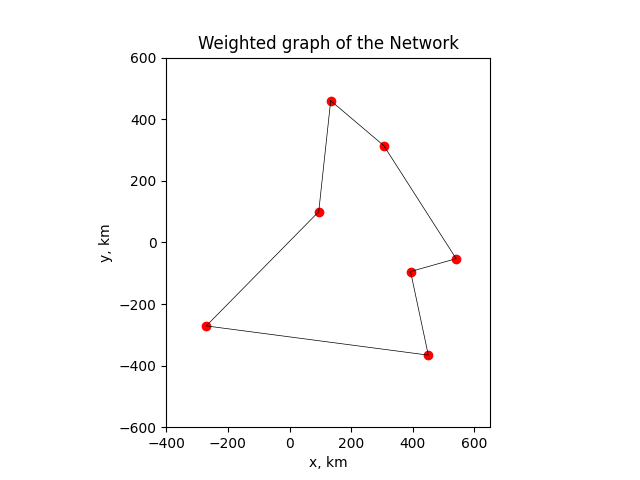
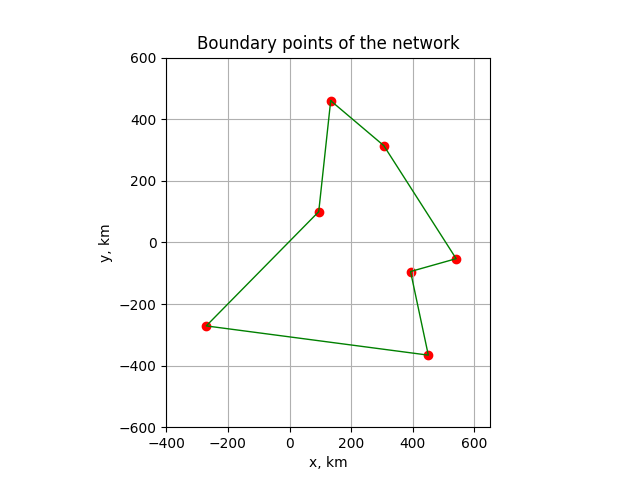
Some modifications to the method draw for better pictures.

diff --git a/core/elements.py b/core/elements.py
@@ -296,7 +296,7 @@ class Network:
         coord_array = np.transpose(np.array([x, y]))
         hull = ConvexHull(coord_array)  # Get the boundary coordinates
         coord_array = coord_array[hull.vertices]
-        if input_file_flag == 'exam':
+        if input_file_flag == 'exam':  # add the outer intersection points
             intersection1 = utils.line_intersections('AE', 'DB', self)
             intersection2 = utils.line_intersections('FG', 'CA', self)
             coord_array = np.vstack((coord_array[0], intersection1, coord_array[1:3], intersection2, coord_array[3:5]))
@@ -311,6 +311,7 @@ class Network:
         plt.title('Weighted graph of the Network')
         plt.xlabel('x, km')
         plt.ylabel('y, km')
+        plt.grid()
         for i in label:
             indx = label.index(i)
             for j in self.nodes[i].connected_nodes:
@@ -319,26 +320,29 @@ class Network:
                         indx2 = label.index(k)
                         xx = [x[indx2], x[indx]]
                         yy = [y[indx2], y[indx]]
-                        plt.plot(xx, yy, 'k-.', linewidth=0.5)  # lines
+                        plt.plot(xx, yy, 'g', linewidth=0.5)  # lines
         for xx, yy, s in zip(x, y, label):
-            circ = plt.Circle((xx, yy), radius=0.5e2)  # circles
+            circ = plt.Circle((xx, yy), radius=0.4e2)  # circles
             circ.set_facecolor('c')
             circ.set_edgecolor('k')
-            ax.txt = plt.text(xx - 0.13e2, yy - 0.13e2, s, fontsize=14)  # labels
+            ax.txt = plt.text(xx - 0.2e2, yy - 0.2e2, s, fontsize=13)  # labels
             ax.add_patch(circ)
         # Save as png
-        plt.savefig(out_dir / 'EXAM_res' / 'Network_Topology.png')
+        if save_my_figure:
+            plt.savefig(out_dir / 'EXAM_res' / 'Network_Topology.png')
         fig2, ax2 = plt.subplots(1)
         ax2.set_aspect('equal')
         plt.axis([-4e2, 6.5e2, -6e2, 6e2])
-        plt.title('Weighted graph of the Network')
+        plt.title('Boundary points of the network')
         plt.xlabel('x, km')
         plt.ylabel('y, km')
+        plt.grid()
         ax2.scatter(x_array, y_array, color='red')
         x_array = np.append(x_array, x_array[0])
         y_array = np.append(y_array, y_array[0])
-        plt.plot(x_array, y_array, 'k', linewidth=0.5)
-        plt.savefig(out_dir / 'EXAM_res' / 'simplified_network_for_hull.png')
+        plt.plot(x_array, y_array, 'g', linewidth=1)
+        if save_my_figure:
+            plt.savefig(out_dir / 'EXAM_res' / 'simplified_network_for_hull.png')
         # Show the image
         plt.show()
 

diff --git a/Tasks/LAB10/LAB10.py b/Tasks/LAB10/LAB10.py
@@ -22,11 +22,6 @@ elif input_file_flag == 'exam':
 else:
     raise ValueError('It can only be exam or lab...')
 
-# simulation flags
-save_my_figure = False
-verbose = False
-do_simulations = [False, False]
-
 # network generation
 network_fixed = el.Network(file_fixed)
 network_fixed.connect()
@@ -35,10 +30,7 @@ network_flex.connect()
 network_shan = el.Network(file_shannon)
 network_shan.connect()
 
-print(utls.line_intersections('AE', 'DB', network_fixed))
-print(utls.line_intersections('FG', 'CA', network_fixed))
-network_fixed.draw_network()
-
+# network_fixed.draw_network()
 
 # ----------------- POINT 1 (Single Traffic Matrix) -----------------
 if do_simulations[0]:

diff --git a/core/parameters.py b/core/parameters.py
@@ -24,4 +24,8 @@ number_of_connections = 100
 max_number_of_iterations = 200  # max number of iterations for the deploy_traffic_matrix
 be_threshold = 15/100  # threshold for the number of blocking events
 
+# simulation flags
+save_my_figure = True
+verbose = False
+do_simulations = [False, False]
 input_file_flag = 'exam'  # 'exam' or 'lab'
